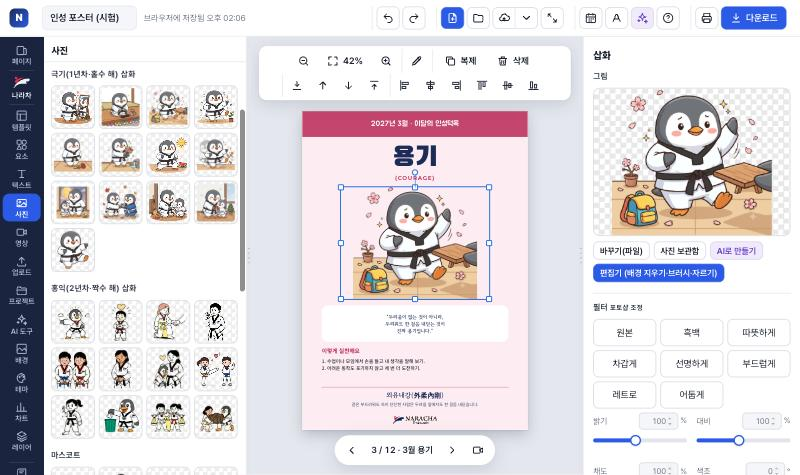
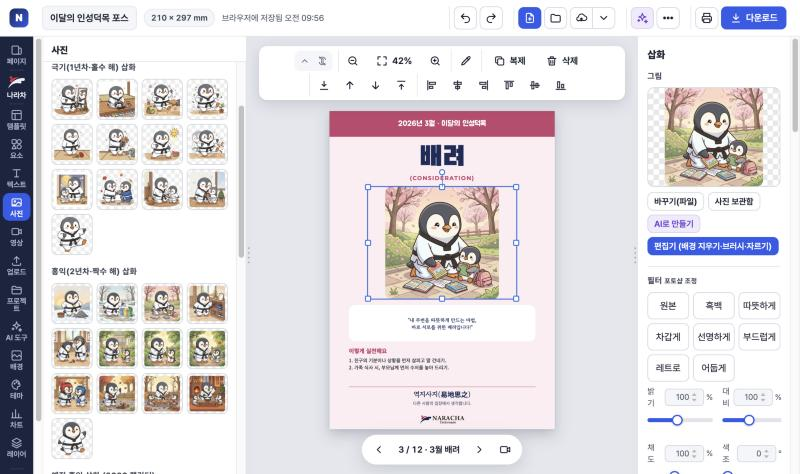
홍익(2년차) 삽화 12장을 팀장님 새 그림으로(모서리 둥근 장면 카드·삽화 자리 가운데), 라차 인사 그림, 사진 패널 묶음, 매뉴얼 (20261120.0956)

diff --git a/app.js b/app.js
@@ -2819,13 +2819,14 @@ function renderSide0() {
     <p class="hint">글 상자를 두 번 누르면 바로 고칩니다. 오른쪽 속성 패널에서 그라데이션·외곽선·그림자·광선·3D·휘기 등 효과를 더합니다.</p>`;
     body.onclick = e => { const b = e.target.closest('button'); if (!b) return; if (b.dataset.add) { const a = b.dataset.add.split(':')[1]; if (a === 'v') addText('s', { vertical: true, text: '세로로 쓰는 글', w: 14, h: 60 }); else addText(a); } if (b.dataset.tstyle) { const p = FX.TEXT_PRESETS.find(x => x.id === b.dataset.tstyle); addText('h', Object.assign({ font: 'Jua', size: 32 }, p.st)); } if (b.dataset.pair) { const [a, bb] = b.dataset.pair.split('|'); lastTextStyle = Object.assign({}, lastTextStyle || {}, { font: a }); noteFont(a); noteFont(bb); const t = addText('h', { font: a }); setTimeout(() => { endEdit(); const s2 = addText('b', { font: bb, text: '본문은 ' + bb + ' 글꼴로 씁니다.' }); s2.y = t.y + t.h + 4; rerender(); }, 120); } if (b.dataset.usefont) { const els = selEls().filter(x => x.type === 'text'); if (els.length) { els.forEach(x => x.font = b.dataset.usefont); commit(); rerender(); } else { lastTextStyle = Object.assign({}, lastTextStyle || {}, { font: b.dataset.usefont }); toast('새 글자의 기본 글꼴로 정했습니다'); } } };
   } else if (sideTab === 'photo') {
-    const groups = [['홍익(2년차·짝수 해) 삽화', k => k.startsWith('illu-')], ['마스코트', k => k.startsWith('mascot-')], ['로고·아이콘', k => !k.startsWith('illu-') && !k.startsWith('mascot-')]];
+    const groups = [['예전 홍익 삽화 (2026 캘린더)', k => k.startsWith('illu-')], ['마스코트', k => k.startsWith('mascot-')], ['로고·아이콘', k => !k.startsWith('illu-') && !k.startsWith('mascot-')]];
     const mine = Object.keys(doc.assets);
     body.innerHTML = `<div class="row" style="margin-bottom:6px"><label class="btn sm">파일 올리기<input type="file" accept="image/*" id="imgFile" hidden multiple></label><button class="btn sm ai" id="imgAI">AI로 만들기</button></div>
     <p class="hint">그림을 누르면 페이지에 추가됩니다. 이미지 요소를 선택한 상태면 그 그림을 바꿉니다.</p>
     ${mine.length ? `<h3>내 이미지 (${mine.length})</h3><div class="picker">${mine.map(k => `<button data-img="a:${k}" draggable="true"><img src="${doc.assets[k]}" alt="" draggable="false"></button>`).join('')}</div>` : ''}
     ${libPhotoHTML()}
-    ${(() => { const A = window.NARACAL_VIRTUE_ART; if (!A) return ''; const ks = A['극기'].concat(A.extra.map(x => x[0])), vn = ((window.NARACAL_VPLAN || {})['극기'] || []).map(x => x.virtue); return `<h3>극기(1년차·홀수 해) 삽화</h3><div class="picker">${ks.map((k, i) => `<button data-img="${k}" title="${i < 12 ? `${i + 1}월 ${esc(vn[i] || '')}` : esc(A.extra[i - 12][1])} — 누르면 쪽에 넣기 · 끌어다 놓기" draggable="true"><img src="${k}" alt="" loading="lazy" draggable="false"></button>`).join('')}</div>`; })()}
+    ${(() => { const A = window.NARACAL_VIRTUE_ART; if (!A) return ''; const grp = (tr, t, more) => { const ks = A[tr].concat(more.map(x => x[0])), vn = ((window.NARACAL_VPLAN || {})[tr] || []).map(x => x.virtue); return `<h3>${t}</h3><div class="picker">${ks.map((k, i) => `<button data-img="${k}" title="${i < 12 ? `${i + 1}월 ${esc(vn[i] || '')}` : esc(more[i - 12][1])} — 누르면 쪽에 넣기 · 끌어다 놓기" draggable="true"><img src="${k}" alt="" loading="lazy" draggable="false"></button>`).join('')}</div>`; };
+      return grp('극기', '극기(1년차·홀수 해) 삽화', A.extra.filter(x => !/hi-/.test(x[0]))) + grp('홍익', '홍익(2년차·짝수 해) 삽화', A.extra.filter(x => /hi-/.test(x[0]))); })()}
     ${groups.map(([t, f]) => { const ks = Object.keys(ASSETS).filter(f); return `<h3>${t}</h3><div class="picker">${ks.map(k => `<button data-img="asset:${k}" title="누르면 쪽에 넣기 · 끌어다 놓기" draggable="true"><img src="${ASSETS[k]}" alt="" draggable="false"></button>`).join('')}</div>`; }).join('')}`;
     body.onclick = async e => {
       const pc = e.target.closest('[data-pcat]'); if (pc) { photoCat = pc.dataset.pcat; renderSide(); return; }
@@ -4169,11 +4170,12 @@ function virtuePlanFor(year) {
 function virtueTrackOf(year) { return window.NARACAL_VTRACK ? window.NARACAL_VTRACK(year) : (Number(year) % 2 === 0 ? '홍익' : '극기'); }
 function virtueArtFix(cal, pages, year, onlyEmpty) {
   const A = window.NARACAL_VIRTUE_ART, ms = cal && cal.months; if (!A || !Array.isArray(ms)) return 0;
-  const tr = virtueTrackOf(year), mine = A[tr] || [], other = A[tr === '극기' ? '홍익' : '극기'] || [];
+  const tr = virtueTrackOf(year), mine = A[tr] || [], ot = tr === '극기' ? '홍익' : '극기', other = (A[ot] || []).concat((A.legacy || {})[ot] || [], (A.legacy || {})[tr] || []);  /* 예전 기본 그림(legacy)도 '기본 그림'으로 보고 새 그림으로 바꿈 */
   const swap = s => !s || (!onlyEmpty && other.includes(s));
   let n = 0;
   ms.forEach((mo, k) => { const want = mine[k]; if (!want) return; if (swap(mo.image)) { mo.image = want; n++; }
-    (pages || []).forEach(p => p.els.forEach(e => { if (e.type === 'image' && e.role === 'illust' && e.month === k + 1 && swap(e.src)) { e.src = want; delete e.srcOrig; n++; } })); });
+    (pages || []).forEach(p => p.els.forEach(e => { if (e.type === 'image' && e.role === 'illust' && e.month === k + 1 && swap(e.src)) { e.src = want; delete e.srcOrig; n++;
+      if (/(^|\/)hi-\d\d-/.test(want) && !e.cardFit) { const sq = Math.round(Math.min(e.w, e.h) * 0.78 * 10) / 10; e.x = Math.round((e.x + (e.w - sq) / 2) * 10) / 10; e.y = Math.round((e.y + (e.h - sq) * 0.65) * 10) / 10; e.w = e.h = sq; e.pos = '50% 50%'; e.cardFit = 1; } } })); });  /* 정사각 장면 카드는 상자 가운데에 조금 작게 (calendar.js img와 같게) */
   return n;
 }
 /* 마법사에서 해를 바꿀 때: 12달 덕목이 '다른 덕목 해의 기본 문구' 그대로면 이 해 문구로 (직접 고친 문구가 하나라도 있으면 그대로) */

diff --git a/manual.js b/manual.js
@@ -48,8 +48,8 @@ window.NC_MANUAL = [
         marks: [[10.6, 23, '만들 연도'], [18, 35, '캘린더 마법사 열기'], [18, 40.7, '인성 문구 넣기 (1년차 극기·2년차 홍익)'], [18, 49.8, '인성 문구 점검 — 계획표와 같은지'], [18, 60, '반복 일정·연간 행사'], [18, 72.8, '공휴일 (대체 휴일 포함)']], go: [['calendar', '캘린더 열기']] },
       { t: '마법사로 26쪽 만들기', d: '연도와 <b>디자인 테마</b>를 고르면 오른쪽에 12달이 미리 보입니다. 공휴일은 자동으로 들어갑니다. <b>26쪽 만들기</b>를 누르세요.', img: 'm07-cal-wizard.jpg',
         marks: [[15, 28.5, '연도'], [15, 51.7, '디자인 테마'], [61, 59, '미리보기 — 작은 달력을 누르면 크게'], [15, 84, '26쪽 만들기']], go: [['wizard', '캘린더 마법사 열기']] },
-      { t: '덕목 삽화 (극기·홍익)', d: '달마다 삽화는 그 해 덕목에 맞게 들어갑니다 — 홀수 해(1년차 극기)는 라차 펭귄 그림 12장, 짝수 해(2년차 홍익)는 2026 캘린더 그림. 마법사에서 연도를 바꾸거나 <b>인성 문구 넣기</b>를 누르면 기본 그림은 그 해 그림으로 바뀌고, <b>직접 넣은 그림은 그대로</b>입니다. 다른 그림으로 바꾸려면 삽화를 고른 채 <b>사진</b> 패널의 <b>극기·홍익 삽화</b>에서 누르세요.', img: 'm26-virtue-art.jpg',
-        marks: [[12, 15.4, '극기 삽화 12장 + 라차 발차기'], [12, 60.4, '홍익 삽화 12장'], [52, 51.6, '고른 삽화 — 사진 패널 그림을 누르면 바꿔 넣기']], go: [['photo', '사진 패널 열기']] },
+      { t: '덕목 삽화 (극기·홍익)', d: '달마다 삽화는 그 해 덕목에 맞게 들어갑니다 — 홀수 해(1년차 극기)는 라차 펭귄 그림 12장, 짝수 해(2년차 홍익)는 라차 장면 그림 12장(배경이 있는 그림이라 모서리 둥근 카드로, 삽화 자리 가운데에 조금 작게 들어감 · 2026 캘린더 그림은 사진 패널 「예전 홍익 삽화」에). 마법사에서 연도를 바꾸거나 <b>인성 문구 넣기</b>를 누르면 기본 그림은 그 해 그림으로 바뀌고, <b>직접 넣은 그림은 그대로</b>입니다. 다른 그림으로 바꾸려면 삽화를 고른 채 <b>사진</b> 패널의 <b>극기·홍익 삽화</b>에서 누르세요.', img: 'm26-virtue-art.jpg',
+        marks: [[12, 13.5, '극기 삽화 12장 + 라차 발차기'], [12, 57, '홍익 삽화 12장 + 라차 인사 (장면 카드)'], [53.5, 52, '고른 삽화 — 사진 패널 그림을 누르면 바꿔 넣기']], go: [['photo', '사진 패널 열기']] },
       { t: '반복 일정 넣기 (휴일 빼기)', d: '매주 수련·마지막 토요일 승급심사·매월 원비 날·생일을 규칙으로 적어 두면 달력마다 자동으로 들어갑니다. 수련처럼 공휴일엔 없는 일정은 <b>휴일 빼기</b>를 켭니다. 엑셀·메모에서 여러 줄을 한 번에 붙여 넣을 수 있고(예: "매주 수요일 품새반 (휴일 제외)"), <b>도장 기본 목록으로 저장</b>하면 내년에도 그대로 씁니다.', img: 'm08-cal-rules.jpg',
         marks: [[50, 38, '요일 규칙 (매주·몇째 주)'], [89.6, 38, '휴일 빼기'], [50, 59, '날짜 규칙 (매월·매년)'], [12.5, 74.7, '여러 줄 붙여넣기'], [10, 80.4, '도장 기본 목록으로 저장']], go: [['rules', '반복 일정 열기']] },
       { t: '인쇄소에 맡기기', d: '<b>다운로드 → PDF (인쇄소용)</b>. 도련(보통 3mm)이 들어가고, <b>📋 인쇄소에 보낼 말</b>을 복사해 카톡·메일로 함께 보내면 크기·도련·색 변환 요청을 따로 설명하지 않아도 됩니다. 아래 <b>인쇄 점검</b>에 문제가 없는지 확인하세요.', img: 'm12-download.jpg',

diff --git a/index.html b/index.html
@@ -16,7 +16,7 @@
 <meta property="og:image" content="https://narachadata.github.io/design/og.png">
 <meta property="og:type" content="website">
 <link rel="stylesheet" href="fonts/fonts.css?v=20261119.1906">
-<link rel="stylesheet" href="app.css?v=20261120.0928">
+<link rel="stylesheet" href="app.css?v=20261120.0956">
 </head>
 <body>
 <svg width="0" height="0" style="position:absolute" aria-hidden="true"><defs>
@@ -208,32 +208,32 @@
 <style id="pageStyle"></style>
 <div class="toast" id="toast" popover="manual" hidden></div>
 
-<script src="version.js?v=20261120.0928"></script>
-<script src="fonts/fonts.js?v=20261120.0928"></script>
-<script src="fonts/webfonts.js?v=20261120.0928"></script>
-<script src="assets.js?v=20261120.0928"></script>
-<script src="assets-brand.js?v=20261120.0928"></script>
-<script src="defaults.js?v=20261120.0928"></script>
-<script src="ai.js?v=20261120.0928"></script>
-<script src="storage.js?v=20261120.0928"></script>
-<script src="live.js?v=20261120.0928"></script>
-<script src="lib.js?v=20261120.0928"></script>
-<script src="calendar.js?v=20261120.0928"></script>
-<script src="templates.js?v=20261120.0928"></script>
-<script src="templates2.js?v=20261120.0928"></script>
-<script src="templates3.js?v=20261120.0928"></script>
-<script src="templates4.js?v=20261120.0928"></script>
-<script src="templates5.js?v=20261120.0928"></script>
-<script src="effects.js?v=20261120.0928"></script>
-<script src="imgedit.js?v=20261120.0928"></script>
-<script src="elements.js?v=20261120.0928"></script>
-<script src="news.js?v=20261120.0928"></script>
-<script src="astream.js?v=20261120.0928"></script>
-<script src="media.js?v=20261120.0928"></script>
-<script src="vtemplates.js?v=20261120.0928"></script>
-<script src="video.js?v=20261120.0928"></script>
-<script src="manual.js?v=20261120.0928"></script>
-<script src="aichat.js?v=20261120.0928"></script>
-<script src="app.js?v=20261120.0928"></script>
+<script src="version.js?v=20261120.0956"></script>
+<script src="fonts/fonts.js?v=20261120.0956"></script>
+<script src="fonts/webfonts.js?v=20261120.0956"></script>
+<script src="assets.js?v=20261120.0956"></script>
+<script src="assets-brand.js?v=20261120.0956"></script>
+<script src="defaults.js?v=20261120.0956"></script>
+<script src="ai.js?v=20261120.0956"></script>
+<script src="storage.js?v=20261120.0956"></script>
+<script src="live.js?v=20261120.0956"></script>
+<script src="lib.js?v=20261120.0956"></script>
+<script src="calendar.js?v=20261120.0956"></script>
+<script src="templates.js?v=20261120.0956"></script>
+<script src="templates2.js?v=20261120.0956"></script>
+<script src="templates3.js?v=20261120.0956"></script>
+<script src="templates4.js?v=20261120.0956"></script>
+<script src="templates5.js?v=20261120.0956"></script>
+<script src="effects.js?v=20261120.0956"></script>
+<script src="imgedit.js?v=20261120.0956"></script>
+<script src="elements.js?v=20261120.0956"></script>
+<script src="news.js?v=20261120.0956"></script>
+<script src="astream.js?v=20261120.0956"></script>
+<script src="media.js?v=20261120.0956"></script>
+<script src="vtemplates.js?v=20261120.0956"></script>
+<script src="video.js?v=20261120.0956"></script>
+<script src="manual.js?v=20261120.0956"></script>
+<script src="aichat.js?v=20261120.0956"></script>
+<script src="app.js?v=20261120.0956"></script>
 </body>
 </html>

diff --git a/calendar.js b/calendar.js
@@ -217,7 +217,9 @@ NC.cal = (function () {
     const pg = (bg, els, label, kind) => ({ id: uid(), bg, els, label, kind });
     const calEl = (m, extra) => Object.assign({ id: uid(), type: 'cal', year, month: m, rot: 0, opacity: 1, s: Object.assign({ fontNum: T.fontNum, fontBody: T.fontBody, line: T.line, outer: T.outer, sunBg: T.sunBg, sunColor: T.sunColor, dayColor: CTX, evColor: CTX, wdColor: CTX }, extra && extra.s), events: (C.months[m - 1].events || []).map(e => Object.assign({}, e)), notes: (C.months[m - 1].notes || []).slice(), name: `${m}월 달력`, role: 'cal', month: m }, extra, { s: Object.assign({ fontNum: T.fontNum, fontBody: T.fontBody, line: T.line, outer: T.outer, sunBg: T.sunBg, sunColor: T.sunColor, dayColor: CTX, evColor: CTX, wdColor: CTX }, extra && extra.s) });
     const mini = (m, x, y, w, h, st) => { const ny = m === 12 ? year + 1 : year, nm = m === 12 ? 1 : m + 1; return { id: uid(), type: 'mini', year: ny, month: nm, x, y, w, h, rot: 0, opacity: 1, s: Object.assign({ fontNum: T.fontNum, color: CTX, sunColor: T.sunColor }, st), name: '다음 달' }; };
-    const img = (mo, x, y, w, h, st) => I_(mo.image, x, y, w, h, Object.assign({ pos: '50% 100%', name: '삽화', role: 'illust', month: mo.m }, mo.imgScale && mo.imgScale !== 1 ? {} : {}, st));
+    /* 배경이 있는 정사각 장면 그림(홍익 hi-…, 모서리 둥근 카드)은 자리 상자 가운데에 조금 작게 — 아래 붙이면 아래 띠·위 영문 덕목과 겹쳤음 (11/20) */
+    const cardArt = src => /(^|\/)hi-\d\d-/.test(String(src || ''));
+    const img = (mo, x, y, w, h, st) => { if (cardArt(mo.image)) { const s = Math.round(Math.min(w, h) * 0.78); x += (w - s) / 2; y += (h - s) * 0.65; w = h = s; st = Object.assign({}, st, { pos: '50% 50%' }); } return I_(mo.image, x, y, w, h, Object.assign({ pos: '50% 100%', name: '삽화', role: 'illust', month: mo.m }, st)); };
     const L = T.layout;
 
     function cover() {

diff --git a/defaults.js b/defaults.js
@@ -299,8 +299,10 @@ window.NARACAL_VTRACK = function (y) { return (Number(y) % 2 === 0) ? '홍익' :
    달력의 그 달 삽화가 비었거나 '다른 해 덕목의 기본 그림'이면 그 해 덕목 그림으로 바꿔 넣음(직접 넣은 그림은 그대로) */
 window.NARACAL_VIRTUE_ART = {
   '극기': ['self-respect', 'initiative', 'courage', 'passion', 'courtesy', 'gratitude', 'patience', 'self-control', 'justice', 'honesty', 'service', 'love'].map((k, i) => 'assets/virtue/kg-' + String(i + 1).padStart(2, '0') + '-' + k + '.webp'),
-  '홍익': ['pride', 'morality', 'consideration', 'responsibility', 'respect', 'humility', 'forgiveness', 'friendship', 'justice', 'honesty', 'fairness', 'cooperation'].map((k, i) => 'asset:illu-' + String(i + 1).padStart(2, '0') + '-' + k),
-  extra: [['assets/virtue/racha-kick.webp', '라차 발차기']],
+  /* 홍익 = 11/20 팀장님이 제미나이로 만든 장면 그림 12장(배경 있는 정사각, 모서리 둥글게) — 예전 그림(asset:illu-…)은 legacy에 */
+  '홍익': ['pride', 'morality', 'consideration', 'responsibility', 'respect', 'humility', 'forgiveness', 'friendship', 'justice', 'honesty', 'fairness', 'cooperation'].map((k, i) => 'assets/virtue/hi-' + String(i + 1).padStart(2, '0') + '-' + k + '.webp'),
+  legacy: { '홍익': ['pride', 'morality', 'consideration', 'responsibility', 'respect', 'humility', 'forgiveness', 'friendship', 'justice', 'honesty', 'fairness', 'cooperation'].map((k, i) => 'asset:illu-' + String(i + 1).padStart(2, '0') + '-' + k) },
+  extra: [['assets/virtue/racha-kick.webp', '라차 발차기'], ['assets/virtue/hi-racha-hello.webp', '라차 인사']],
 };
 // 기본 프로젝트 데이터: 2026년 캘린더 내용을 바탕으로 2027년 초안을 만듭니다.
 window.NARACAL_DEFAULTS = (function () {

diff --git a/version.js b/version.js
@@ -1,1 +1,1 @@
-window.NARACAL_VER = "20261120.0928";
+window.NARACAL_VER = "20261120.0956";

diff --git a/작업인계.md b/작업인계.md
@@ -1266,6 +1266,15 @@
 - 다음 홍익 해는 2028년 — 설날(1/26)·추석(10/3~5)이 해마다 다른 달이라 장면에 명절 소품 대신 계절 소품만.
 - 그림이 오면: 극기 때처럼 배경 지우고 정사각 webp로 `assets/virtue/hi-01-…` ~ `hi-12-…`, `defaults.js NARACAL_VIRTUE_ART['홍익']`을 asset:illu-01~12에서 새 그림으로 바꾸기(사진 패널 「홍익(2년차·짝수 해) 삽화」 묶음·virtueArtFix가 그대로 따라감).
 
+## 2026-11-20 오전 — 홍익 삽화 12장 + 라차 인사 넣기 (팀장님 제미나이 그림 14장)
+- 받은 14장(1024 정사각, 배경 있는 장면 — 프롬프트의 '흰 배경'과 다름): 달마다 맞춰 `assets/virtue/hi-01-pride … hi-12-cooperation.webp`(모서리 둥근 카드 r64·투명 모서리, 각 60~130KB). 9월은 거의 같은 두 장 중 하나(다른 하나는 안 씀). 흰 배경 라차 한 장 → 바깥 흰색만 지워 `hi-racha-hello.webp`(덤 '라차 인사').
+- defaults.js `NARACAL_VIRTUE_ART['홍익']` = 새 그림, `legacy['홍익']` = 예전 asset:illu-…(virtueArtFix가 예전 기본 그림도 '기본'으로 보고 새 그림으로 바꿈 — 문서를 열 때는 빈 자리만, 마법사·인성 문구 넣기에서 바꿈), extra에 라차 인사.
+- 장면 카드 자리: calendar.js `img()` — hi- 그림이면 삽화 상자 안에 78% 정사각, 가로 가운데·세로 65% 지점(아래 붙이면 아래 띠·위 영문 덕목과 겹쳤음). virtueArtFix로 바꿀 때도 같게(e.cardFit). 테마 7개 모두 2028 1월 인성 쪽으로 확인.
+- 사진 패널: 「극기 삽화」·「홍익 삽화」(새 그림 + 라차 인사) 묶음, 예전 asset illu는 「예전 홍익 삽화 (2026 캘린더)」로 이름 바꿈.
+- 인성덕목 템플릿(홍익 SNS·포스터 등)도 새 그림 — SNS 카드 확인.
+- 프롬프트 문서에 「더 있으면 좋은 그림」: 2028 표지 가로 그림·홍익 상징 정사각(배경 있는 장면 모양, 참고 그림 함께), 5월 족자 글자 다시 만들기 안내.
+- 매뉴얼: 캘린더 '덕목 삽화' 글·그림 m26 다시 찍음(홍익 포스터 3월 배려, 사진 패널 두 묶음).
+
 ---
 # ▶ 다음에 이어 하기 (2026-11-19 밤 작업 종료, 마지막 배포 20261119.1906)
 1. `git pull` → 이 문서를 읽고 팀장님께 한글로 브리핑 → 아래 남은 일부터.
